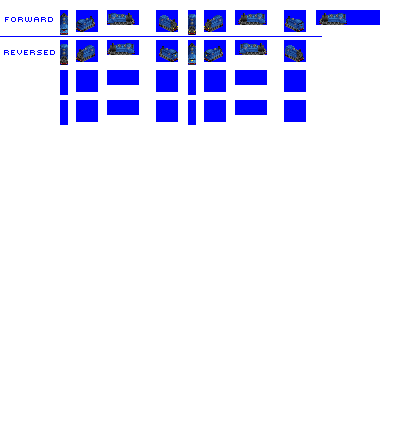
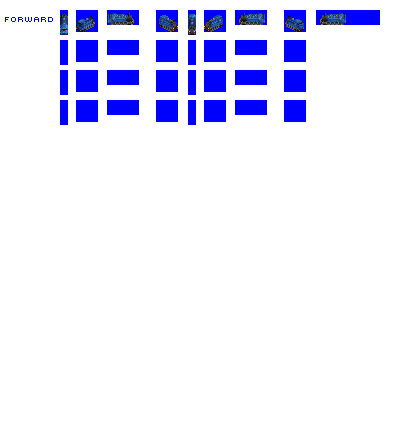
Change: reversed view for Suburban loco

diff --git a/src/vehicles/suburban.py b/src/vehicles/suburban.py
@@ -25,3 +25,7 @@ consist.add_unit(SteamLoco(consist = consist,
 consist.add_model_variant(intro_date=0,
                        end_date=global_constants.max_game_date,
                        spritesheet_suffix=0)
+
+consist.add_model_variant(intro_date=0,
+                       end_date=global_constants.max_game_date,
+                       spritesheet_suffix=1)
